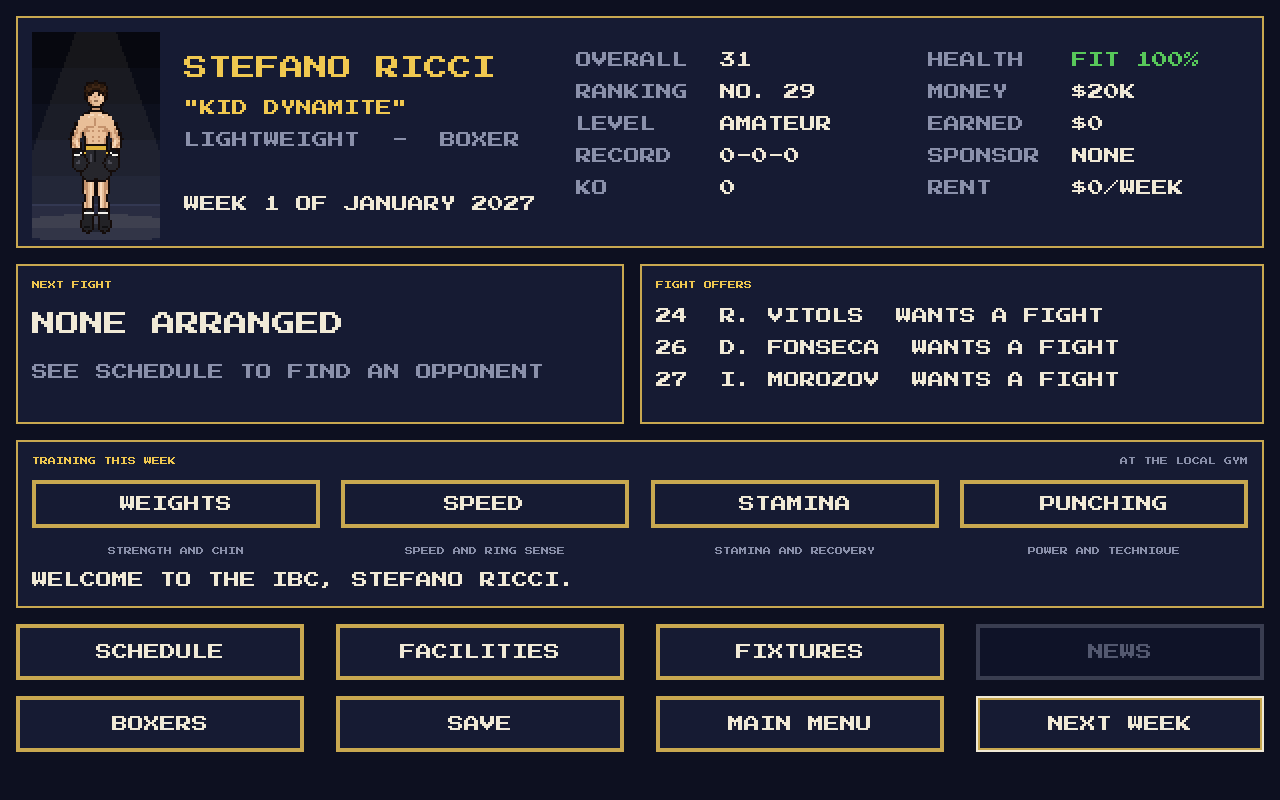
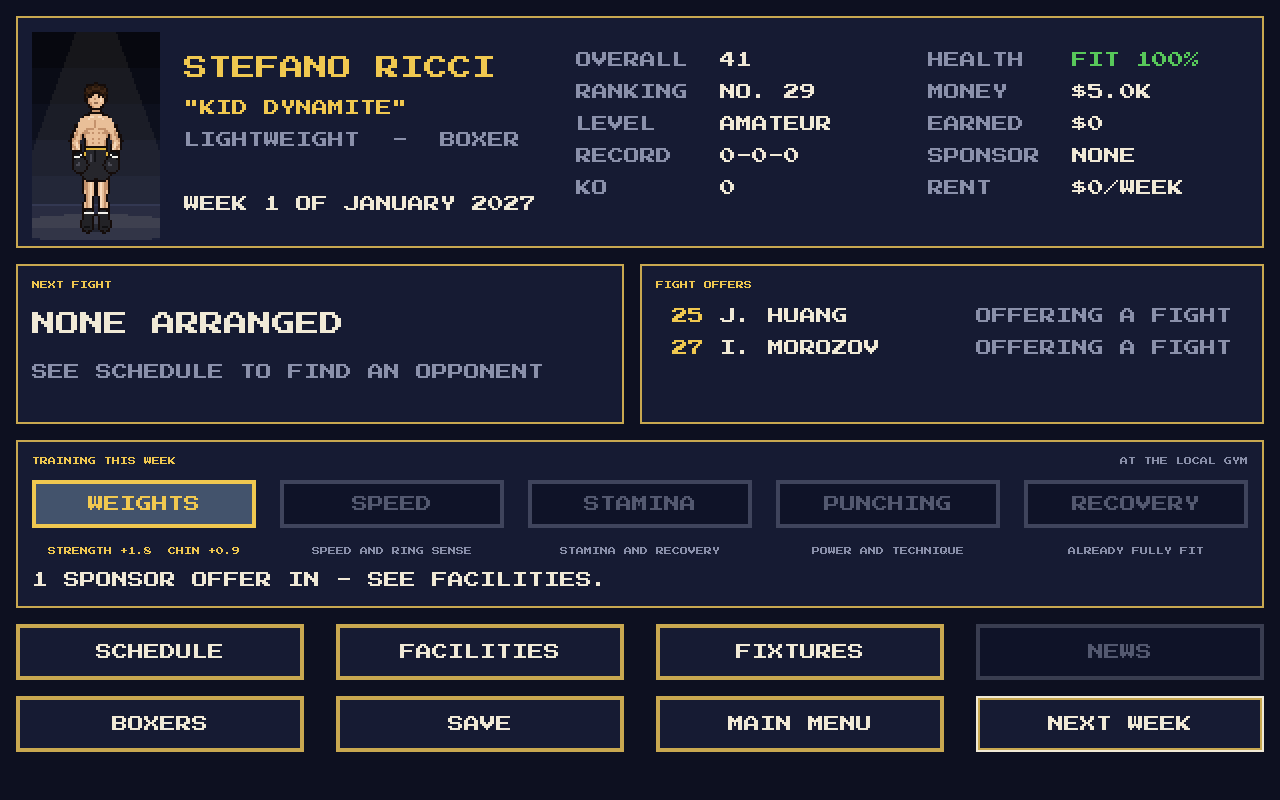
0.1.15: Tidy new boxer screen, fewer early offers, recovery training
New boxer: BOXER/SKILLS and NICKNAME/FROM boxes share heights and rows;
lists show whole rows only. Fight offers no longer pile up over the
warm-up (only some managers offer, at most two a month) and the men
around a new career's boxer are freed of later bookings. Training gets a
RECOVERY session and tinted buttons; offers read OFFERING A FIGHT in
columns. New boxers start at 35 per skill with 45 points and $5,000.

Claude-Session: https://claude.ai/code/session_01PF6KKrB4uHprcLjw7ppdzy

diff --git a/README.md b/README.md
@@ -397,25 +397,29 @@ with a random look, name and hometown, all of which can be changed:
   SKIN, HAIR colour, HAIRCUT and TRUNKS colour, each with < and >.
 * NICKNAME: ten made up for him, or NO NICKNAME.
 * FROM: a country, then one of its cities.
-* SKILLS: every skill starts at 25, with **40 points** to spend between
+* SKILLS: every skill starts at 35, with **45 points** to spend between
   them using - and + (from 10 to 65 each). Points taken off a skill go
   back in the pool.
 
 START CAREER builds a fresh world (the starting rosters and a new season)
-with him at the bottom of his division, at 20, 0-0-0, with **$20,000** in
+with him at the bottom of his division, at 20, 0-0-0, with **$5,000** in
 the bank. The career is saved straight away, at the end of every month and
 when leaving for the main menu (SAVE saves it any time). Saves live in
 `user://careers/`; **CONTINUE SAVED CAREER** lists them, newest first.
 
 **The career page** shows the boxer and his overall rating, ranking,
 level, record, health, money, earnings, sponsor and the week's rent, his
-next fight, the men who want to fight him, and the latest news. Time moves
-a **week** at a time, four weeks to a month:
+next fight, the men offering him a fight, and the latest news. Time moves
+a **week** at a time (NEXT WEEK), four weeks to a month:
 
 * **Training**: once a week choose WEIGHTS (strength, some chin), SPEED
-  (speed, some ring sense), STAMINA (stamina, some recovery) or PUNCHING
-  (power, some technique). The other three are greyed out until next week.
-  How much he gains depends on the gym, and less as a skill gets higher.
+  (speed, some ring sense), STAMINA (stamina, some recovery), PUNCHING
+  (power, some technique) or RECOVERY (no skills, but half as much again
+  as a normal week's health comes back on top, more at a better recovery
+  centre; greyed out while he is fully fit). The others are greyed out
+  until next week. How much he gains
+  depends on the gym, and less as a skill gets higher. The training
+  buttons are tinted blue so they stand apart from the menu.
 * **NEXT WEEK** pays the week's rent and lets him recover a little. In the
   last week of the month it reads **FIGHT NIGHT** and opens the fixtures:
   watch his fight (or any other), PLAY MONTH, then READ THE PAPER; the
@@ -447,7 +451,9 @@ can pay for its first week.
 
 * The men he may fight are those in his division no more than 4 places
   above him or 6 below, who are free (no fight arranged, recovered from
-  their last), plus anyone who has asked to fight him (WANTS TO FIGHT).
+  their last), plus anyone who has asked to fight him (OFFERING A FIGHT).
+  Only a few managers ask in a month, and only now and then do they pick
+  an unknown like him.
 * Choose a man to offer him a purse: five choices from LOW (60% of the
   usual purse) through USUAL to HIGH (150%). He must have half the purse
   in the bank to offer it. A man who wants the fight nearly always says
@@ -652,6 +658,8 @@ Command-line options read by the game (after `--`):
 | `--capture=<png>`          | Fast-forward, save a screenshot and quit                                                                                                                                                               |
 | `--show=<moment>`          | What to capture: `menu`, `roster`, `profile`, `intro`, `fight`, `big` (a big punch), `onetwo` (a one-two), `taunt` (showing off), `break`, `count`, `announce`, `result`, `stats`, `fixtures`, `paper`, `career_menu`, `exhibition`, `new_boxer`, `career`, `facilities`, `schedule` |
 | `--offer`                  | With `--show=schedule`, open the purse offer for the first opponent                                                                                                                                   |
+| `--train=<0-4>`            | Career screens: the boxer trains that session this week (4 = RECOVERY)                                                                                                                                 |
+| `--offers=<n>`             | Career screens: the first n men he could fight are offering him a fight                                                                                                                                |
 | `--wait=<seconds>`         | Real seconds to wait before the shot (e.g. mid read-out)                                                                                                                                               |
 | `--at=<seconds>`           | Earliest real second of round 1 to capture (default 20)                                                                                                                                                |
 

diff --git a/CHANGELOG.md b/CHANGELOG.md
@@ -4,6 +4,32 @@ Every build bumps the last number of the version while the game is a
 prototype. The version lives in `project.godot` (`application/config/version`)
 and is shown on the main menu.
 
+## 0.1.15
+
+* New boxer screen tidied: the BOXER and SKILLS boxes are the same height
+  and their rows line up (POINTS LEFT sits level with TRUNKS); NICKNAME and
+  FROM start and end level, and the lists show whole rows only (no half
+  rows when they scroll).
+* Fewer fight offers at the start: offers piled up over the warm-up before
+  January (five at the start of a career). Now only January's count, a
+  manager who fancies the new man only sometimes makes the offer, and no
+  more than two offer in a month. Sponsor offers for an unknown are rarer
+  too. In a test of four new careers over four months: 0-1 fight offers
+  and 0-2 sponsor offers a month.
+* A new career no longer starts with everyone around him booked for months
+  ahead: their fights after January are called off so he has men to
+  approach in Schedule.
+* Developer options for the career screenshots: `--train=<0-4>` and
+  `--offers=<n>`.
+* Training has a fifth choice, RECOVERY: no skill gains, but extra health
+  back that week (more at a better recovery centre).
+* The training buttons are tinted steel blue so they stand apart from the
+  menu buttons below.
+* Fight offers read "OFFERING A FIGHT", in columns: ranking (right-aligned),
+  name, then the offer. The Schedule list uses the same words.
+* A new boxer starts with every skill at 35 (was 25) and 45 points to spend
+  (was 40), and with $5,000 (was $20,000).
+
 ## 0.1.14
 
 * Main menu: START is now **EXHIBITION** and SEASON is now **CAREER**.
